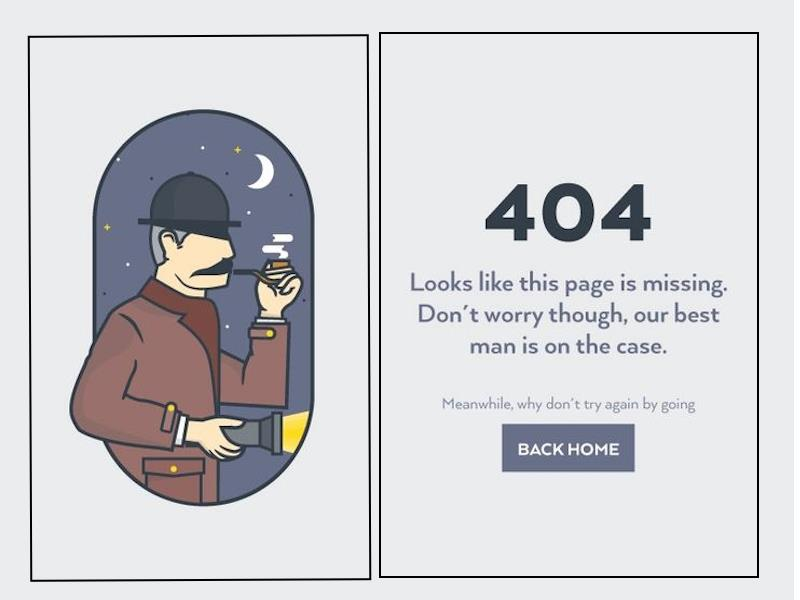
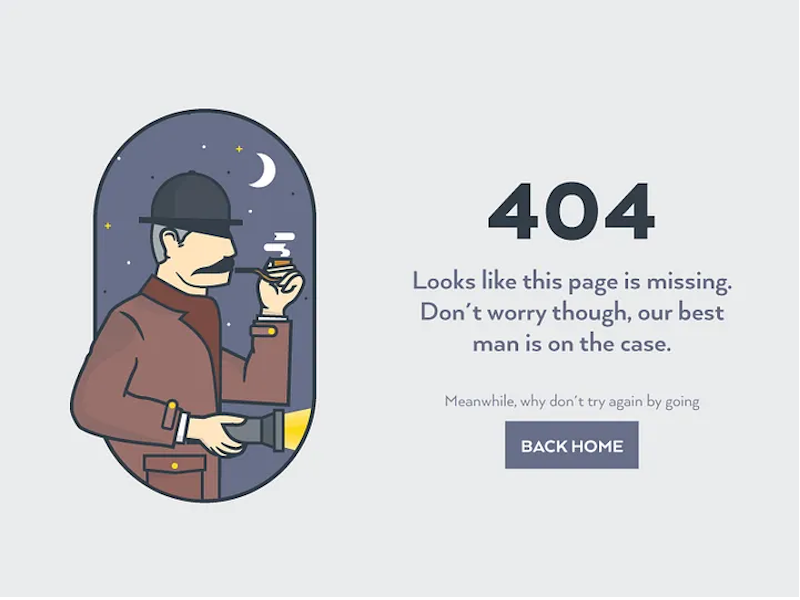
update

diff --git a/index.html b/index.html
@@ -6,19 +6,24 @@
         <meta name="viewport" content="width=device-width, initial-scale=1.0"> 
         <title>Paveikslas</title>
     </head>
-    <body>
-        <img scr="#" alt="Dede su prozektoriumi masto menesienoje">
-        <div>
-            <div>404</div>
-            <div>Lorem ipsum dolor sit amet consectetur, adipisicing elit.
-                 Accusantium libero esse omnis soluta ipsa incidunt natus. 
+    <body style="background-color: lightgray;">
+        <img style="float: left; margin-left: 20%; margin-top: 8%; width: 20%;" src="./img/paveikslas.jpg" alt="Dede su prozektoriumi masto menesienoje">
+        <div style="float: left; float: top; font-style: italic; margin-top: 8%; width: 20%; background-color: aqua;">
+            <h1 style="background-color: red; text-align: center;">404</h1>
+            <p style="font-size: 20px; line-height: 1.2em; background-color: pink;">Lorem ipsum dolor sit amet consectetur, adipisicing elit. Accusantium libero esse omnis soluta ipsa incidunt natus.
                  Quo ut, accusantium aperiam impedit odit voluptatum omnis, 
-                 quod laborum nostrum assumenda explicabo amet?</div>
-            <div>Lorem ipsum dolor sit amet consectetur.</div>
-            <a href="#">Back home</a>
+                 quod laborum nostrum assumenda explicabo amet?</p>
+            <p style="background-color: orange;">Lorem ipsum dolor sit amet consectetur.</p>
+            <a style="background-color: yellow;" href="#">Back home</a>
         </div>
     </body>
 </html>
+
+
+
+
+
+
 
 <!-- 
 style="savybe1: reiksme1; kita-savybe2: kita-reiksme2;"
@@ -65,6 +70,8 @@ font-style: italic;       teksto stilius; italic - italika, normal - normaliai, 
 
 font-family: Arial, sans-serif;  teksto fontas; Arial - fontas, sans-serif - be serifu
 font-size: 16px;          teksto dydi; 16px - pikseliai, 1em - em, 1rem - rem, 1ch - ch, 1vw - viewport plotis, 1vh - viewport aukstis  
+
+line-height: 1.2em;
 
 
 text-transform: uppercase;  teksto transformacija; uppercase - didziosios raides, lowercase - mazosios raides, capitalize - pirmos raides didziosios
